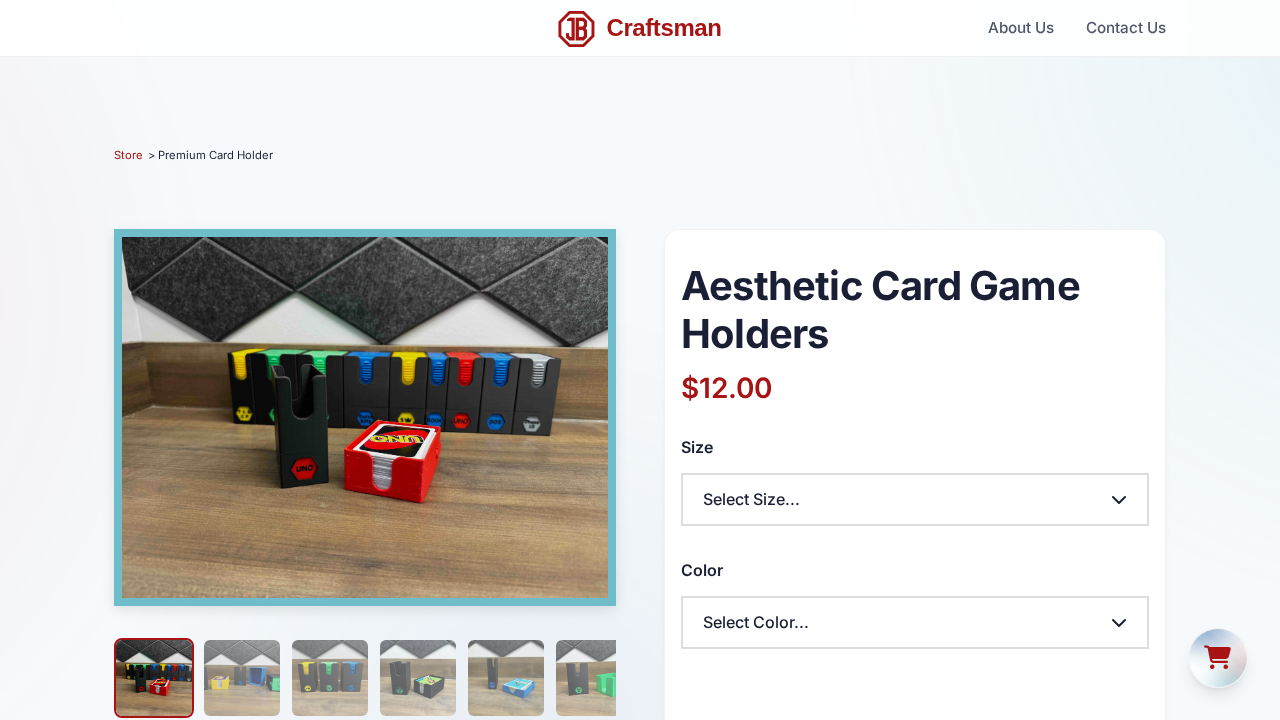
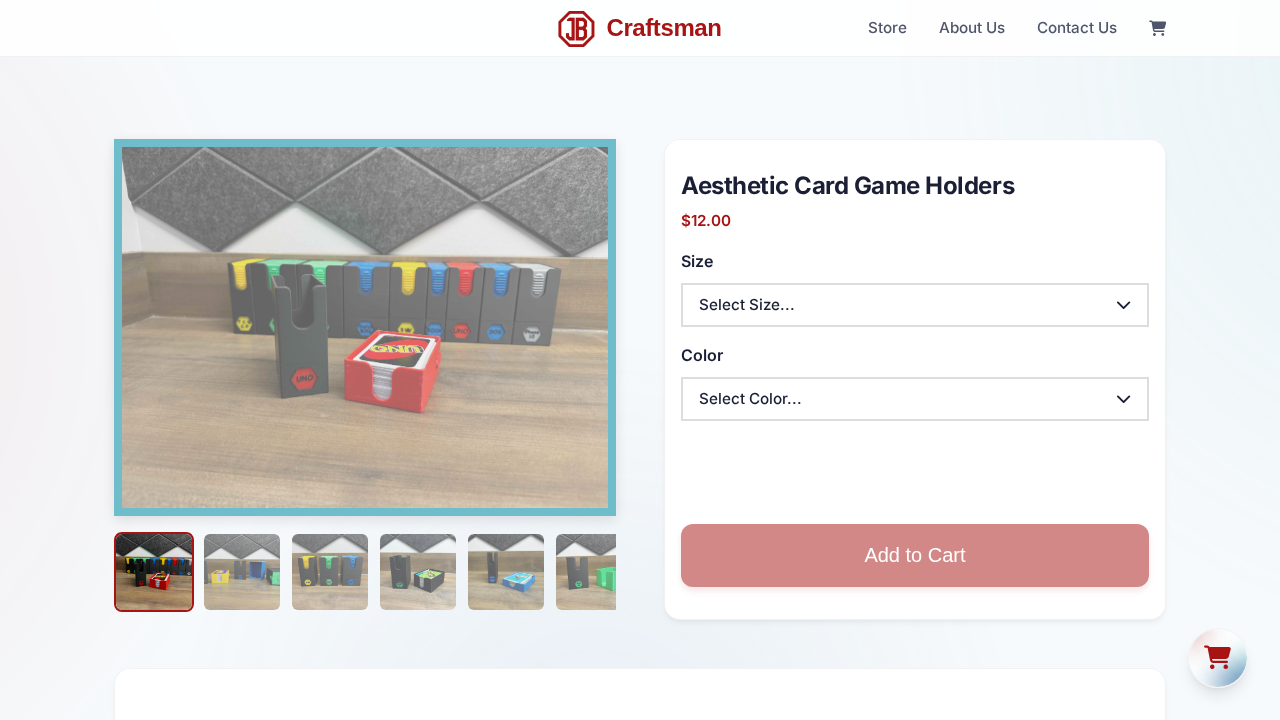
style: remove breadcrumbs and adjust container padding
Removed the breadcrumb element and associated styles from `store/product.html`. Adjusted the container top padding from 90px to 50px to reclaim the space left by the removed breadcrumb and maintain visual hierarchy without a large gap.

diff --git a/store/product.html b/store/product.html
@@ -109,14 +109,6 @@
       padding-top: 2rem;
     }
 
-    .breadcrumb {
-      font-size: 0.7rem;
-      margin-bottom: 0.6rem;
-    }
-    .breadcrumb span, .breadcrumb a {
-      margin-right: 0.15rem;
-    }
-
     .carousel-container {
       margin-top: 1rem;
       width: 100%;
@@ -344,18 +336,6 @@
       border-radius: var(--border-radius);
     }
 
-    .breadcrumb {
-      margin-bottom: 2rem;
-      color: var(--text-muted);
-    }
-    .breadcrumb a {
-      color: var(--primary-color);
-      text-decoration: none;
-    }
-    .breadcrumb a:hover {
-      text-decoration: underline;
-    }
-
   </style>
 </head>
 <body>
@@ -384,11 +364,7 @@
     </div>
   </nav>
 
-  <div class="container" style="padding-top: 90px; padding-bottom: 60px;">
-
-    <div class="breadcrumb">
-      <a href="../index.html">Store</a> &gt; <span>Premium Card Holder</span>
-    </div>
+  <div class="container" style="padding-top: 50px; padding-bottom: 60px;">
 
     <!-- Product Layout -->
     <div class="product-page-container bento-grid" style="margin:0;" id="productPageContent">
